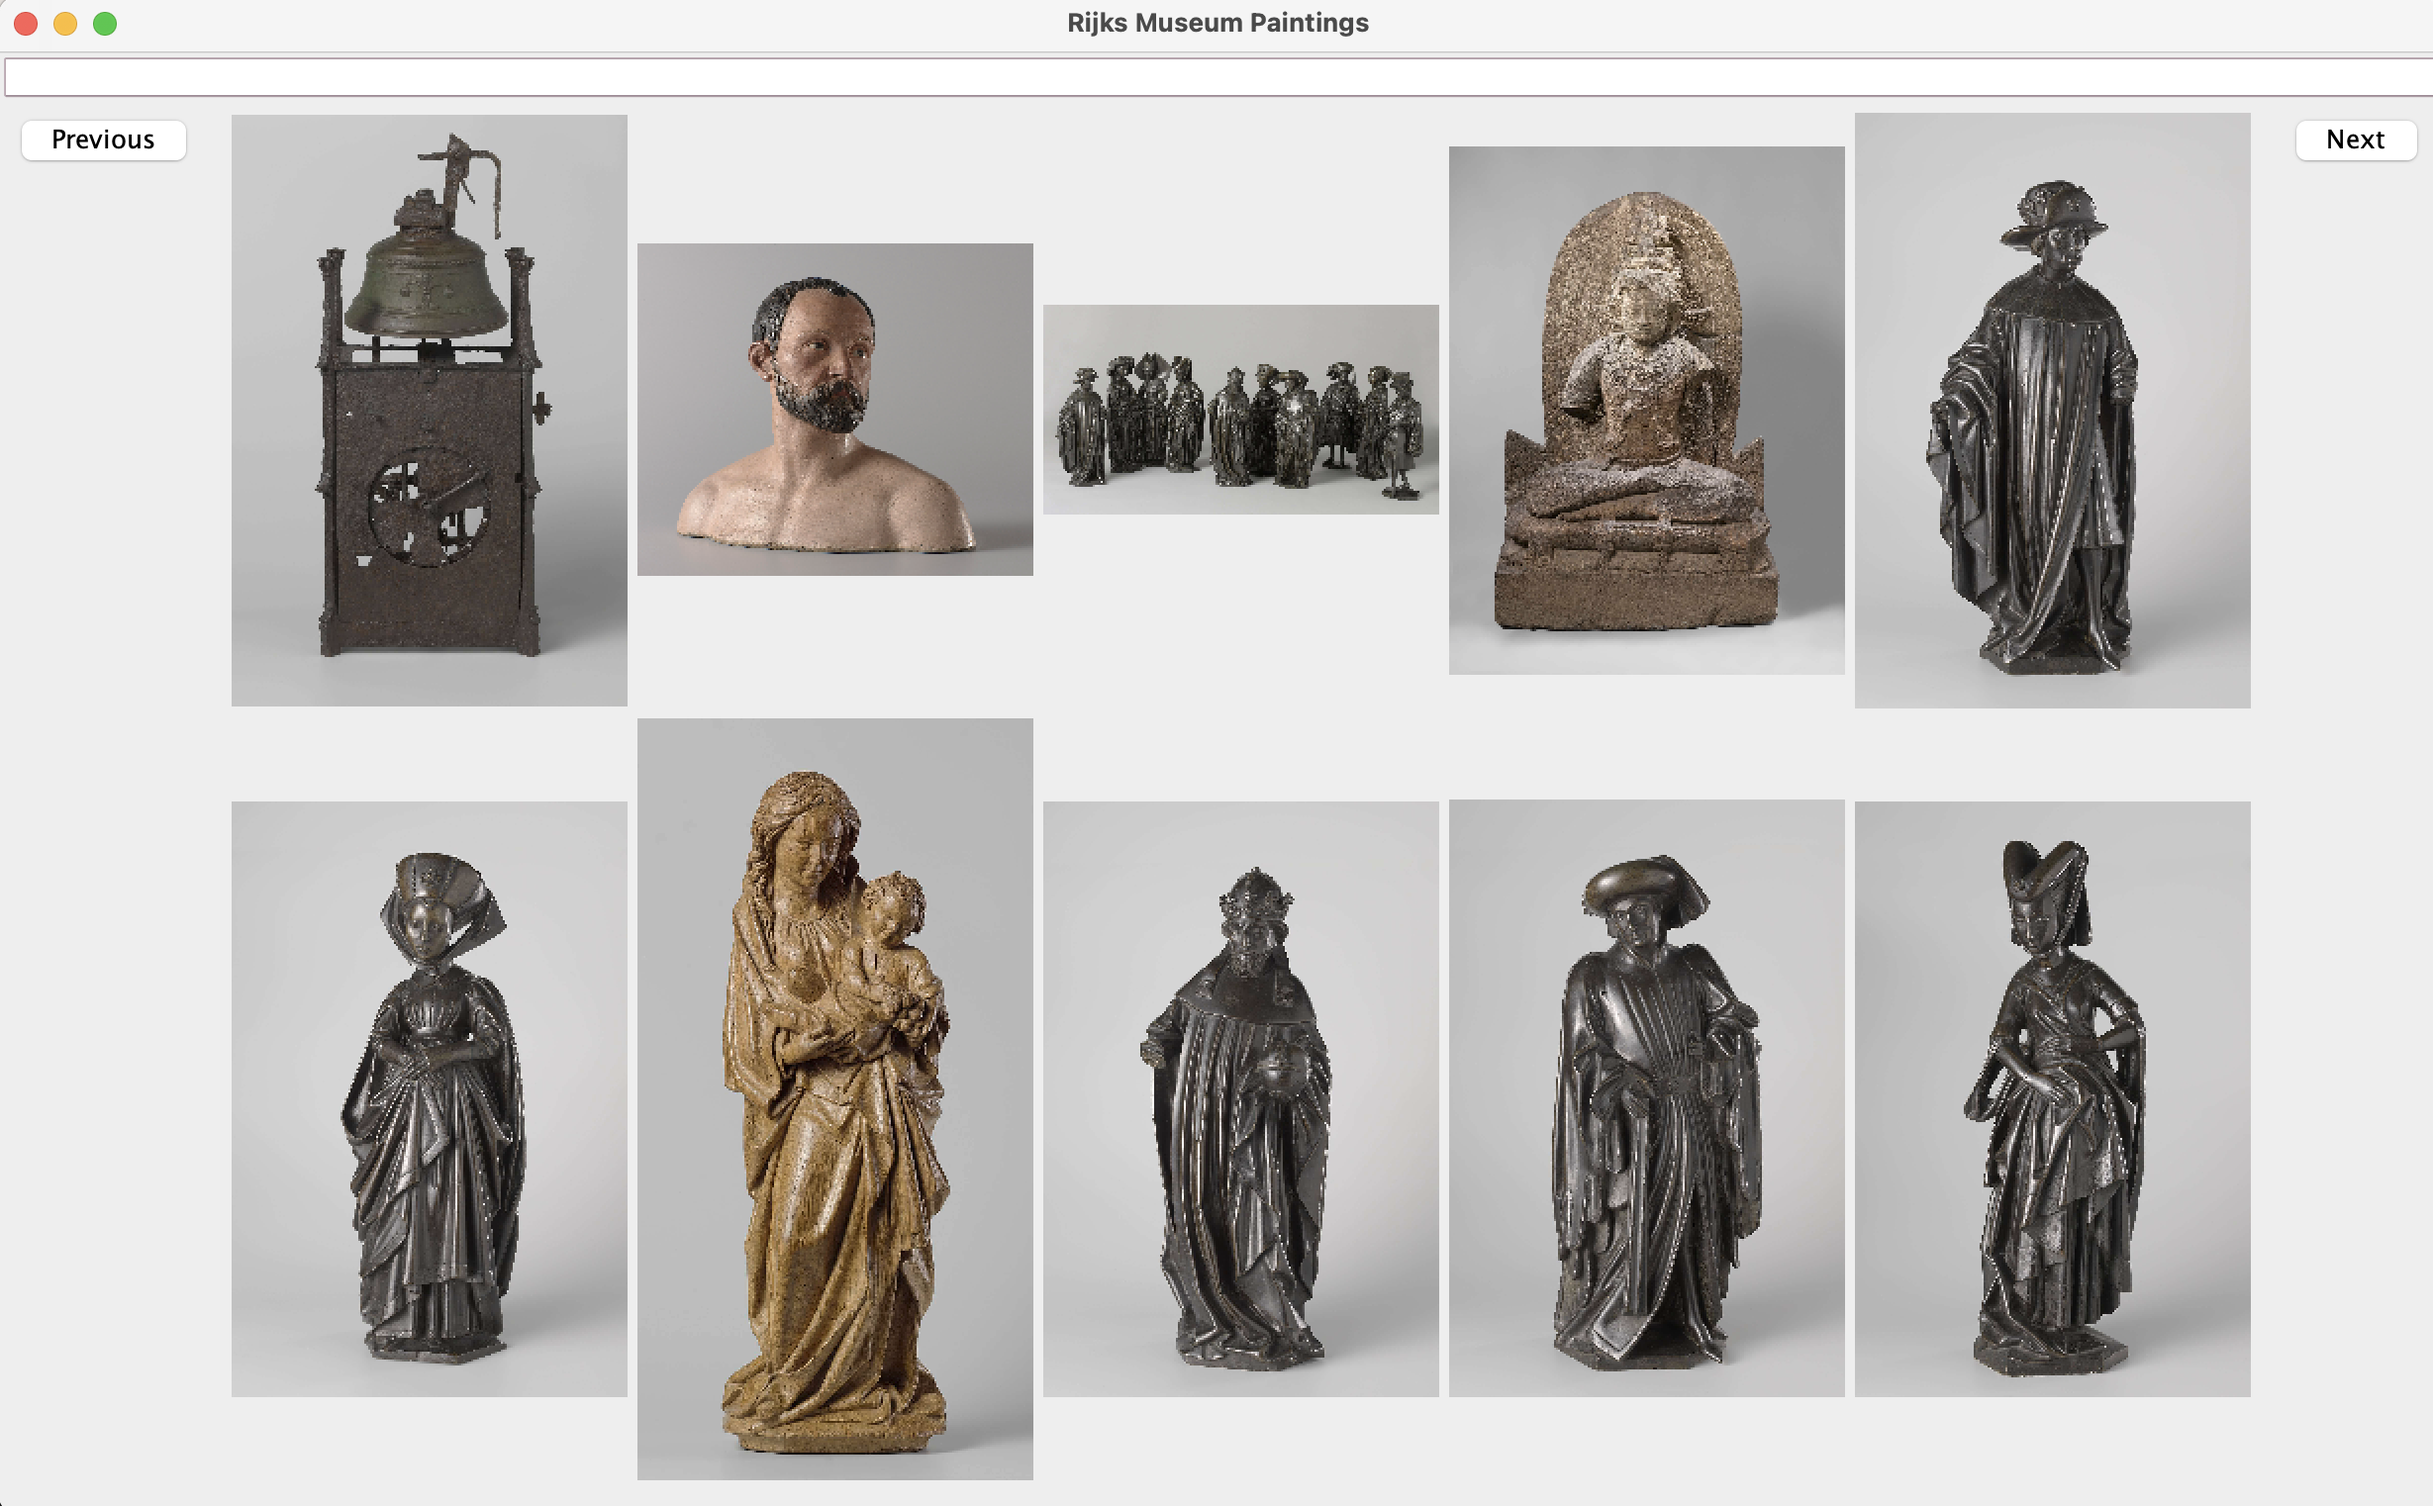
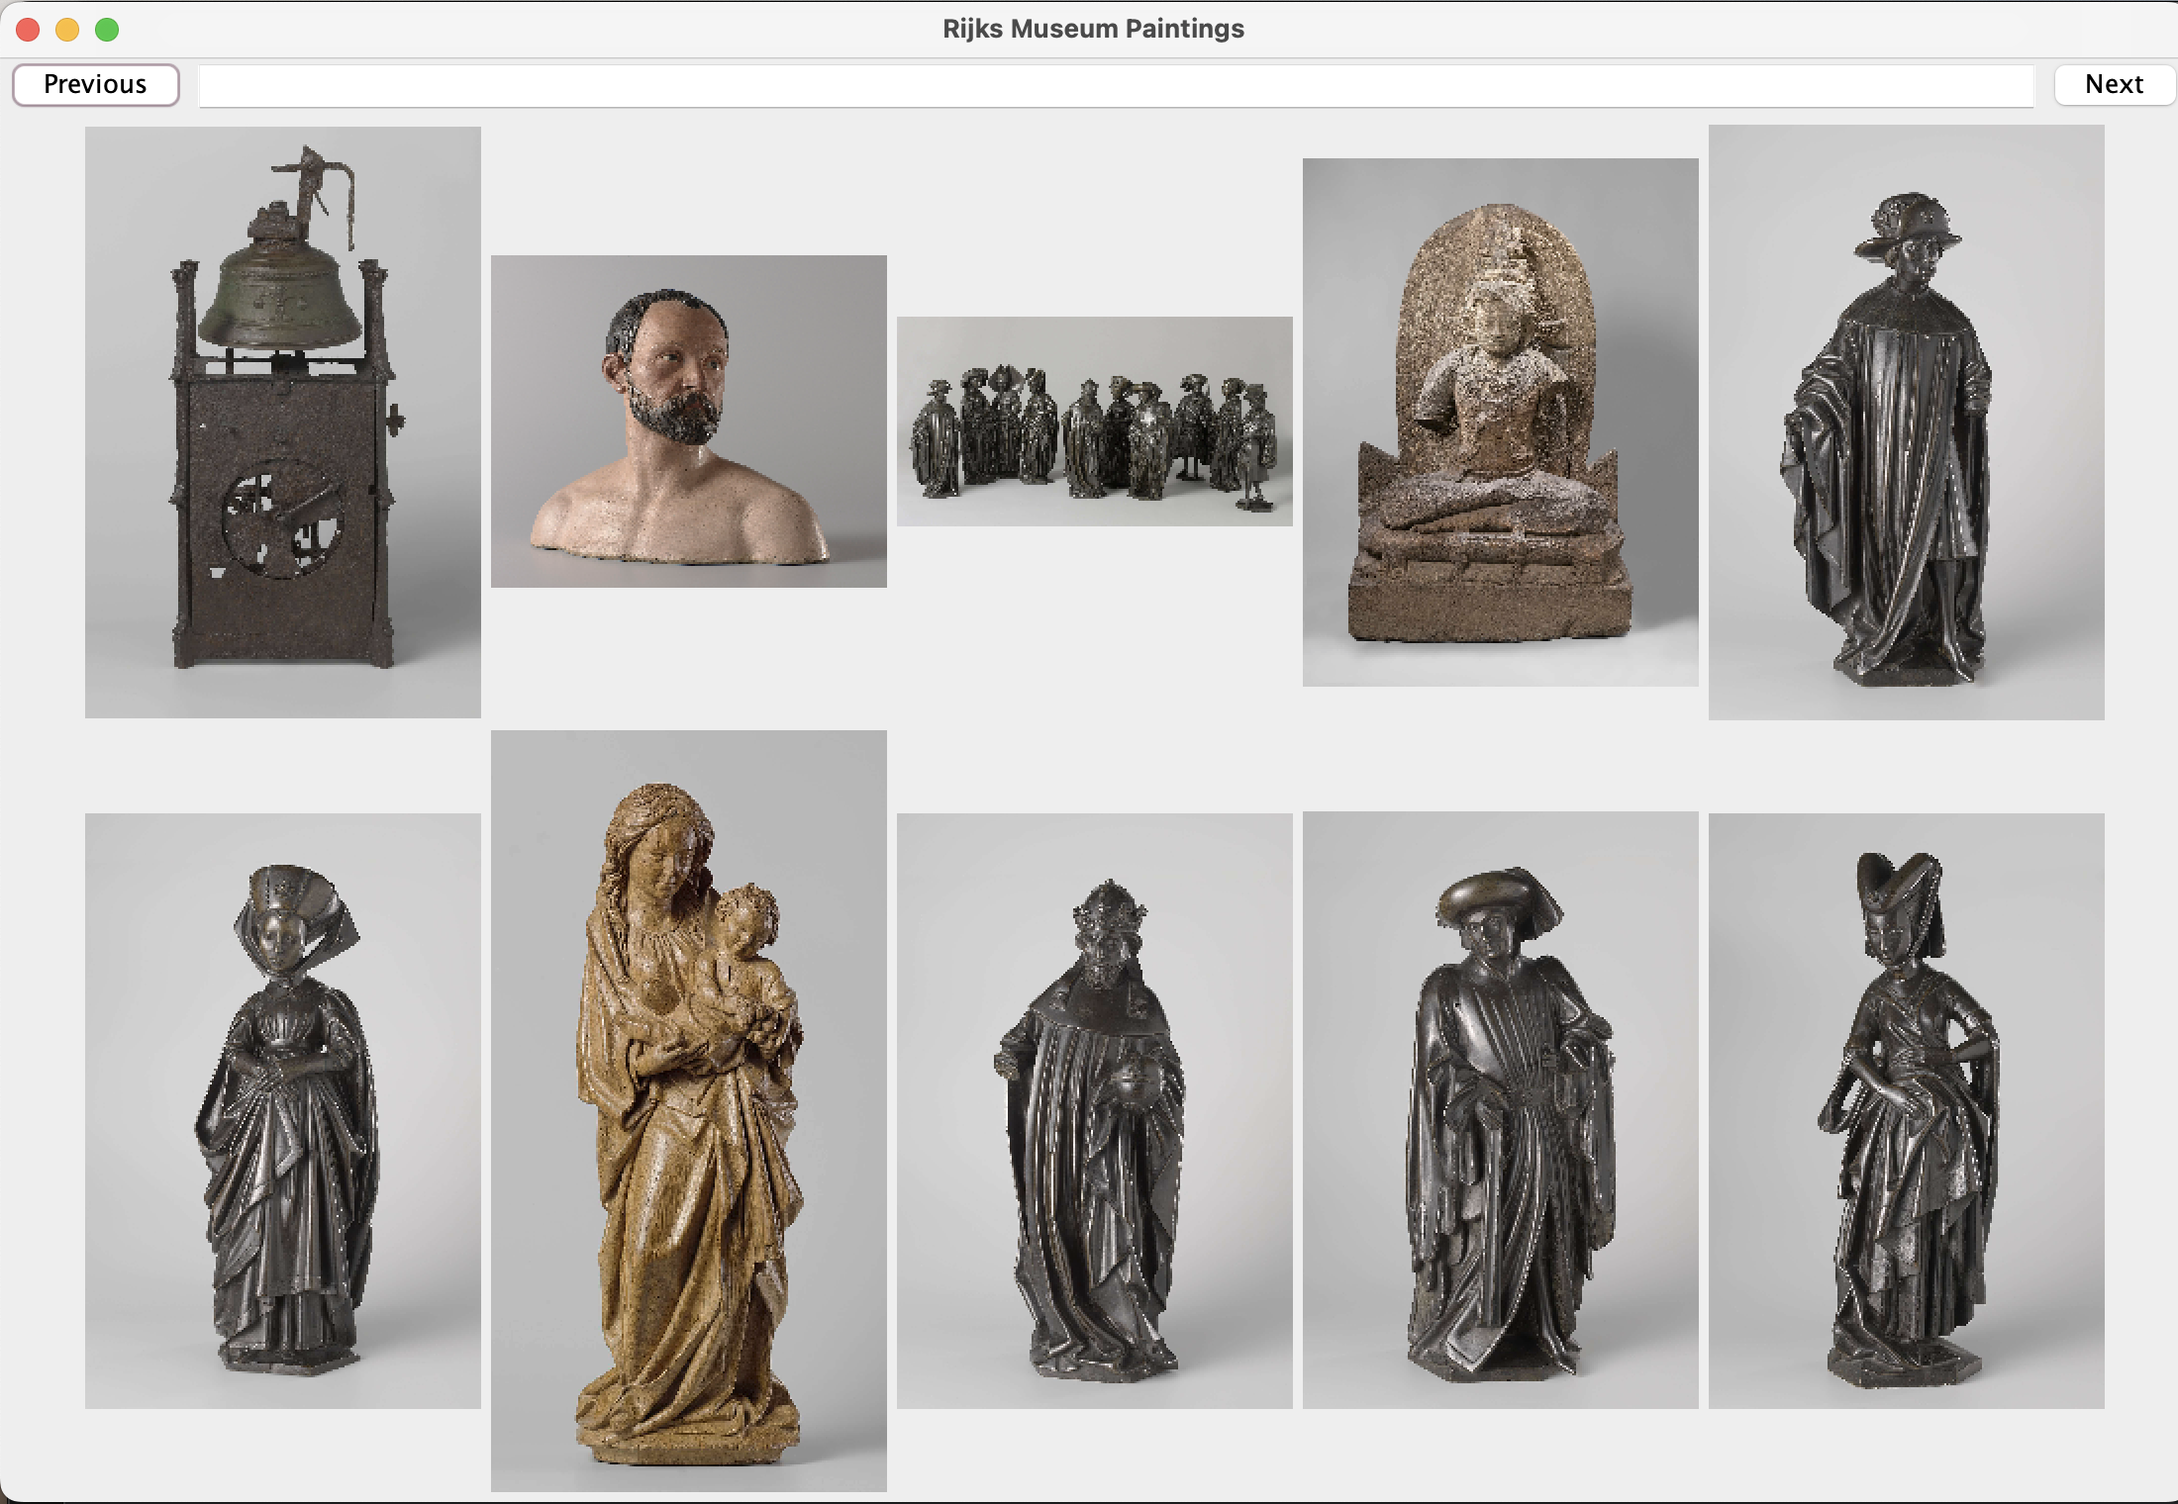
panel

diff --git a/src/main/java/green/rijks/RijksFrame.java b/src/main/java/green/rijks/RijksFrame.java
@@ -24,7 +24,6 @@ public class RijksFrame extends JFrame  {
     private final RijksService service = new RijksServiceFactory().getService();
     private int currPage = 1;
     private int currPageQuery = 1;
-    private ArtObjects artObjs;
     private JPanel paintingComponent = new JPanel();
 
     public RijksFrame() {
@@ -36,19 +35,18 @@ public class RijksFrame extends JFrame  {
         main.setLayout(new BorderLayout());
         setContentPane(main);
 
+        JPanel topPanel = new JPanel();
+        topPanel.setLayout(new BorderLayout());
+
         JButton next = new JButton("Next");
         JButton prev = new JButton("Previous");
-
-        JPanel prevPanel = new JPanel(new FlowLayout(FlowLayout.LEFT));
-        JPanel nextPanel = new JPanel(new FlowLayout(FlowLayout.RIGHT));
-        prevPanel.add(prev);
-        nextPanel.add(next);
-
-        main.add(prevPanel, BorderLayout.WEST);
-        main.add(nextPanel, BorderLayout.EAST);
-
         JTextField search = new JTextField();
-        main.add(search, BorderLayout.PAGE_START);
+
+        topPanel.add(prev, BorderLayout.WEST);
+        topPanel.add(next, BorderLayout.EAST);
+        topPanel.add(search, BorderLayout.CENTER);
+
+        main.add(topPanel, BorderLayout.PAGE_START);
 
         main.add(paintingComponent, BorderLayout.CENTER);
 
